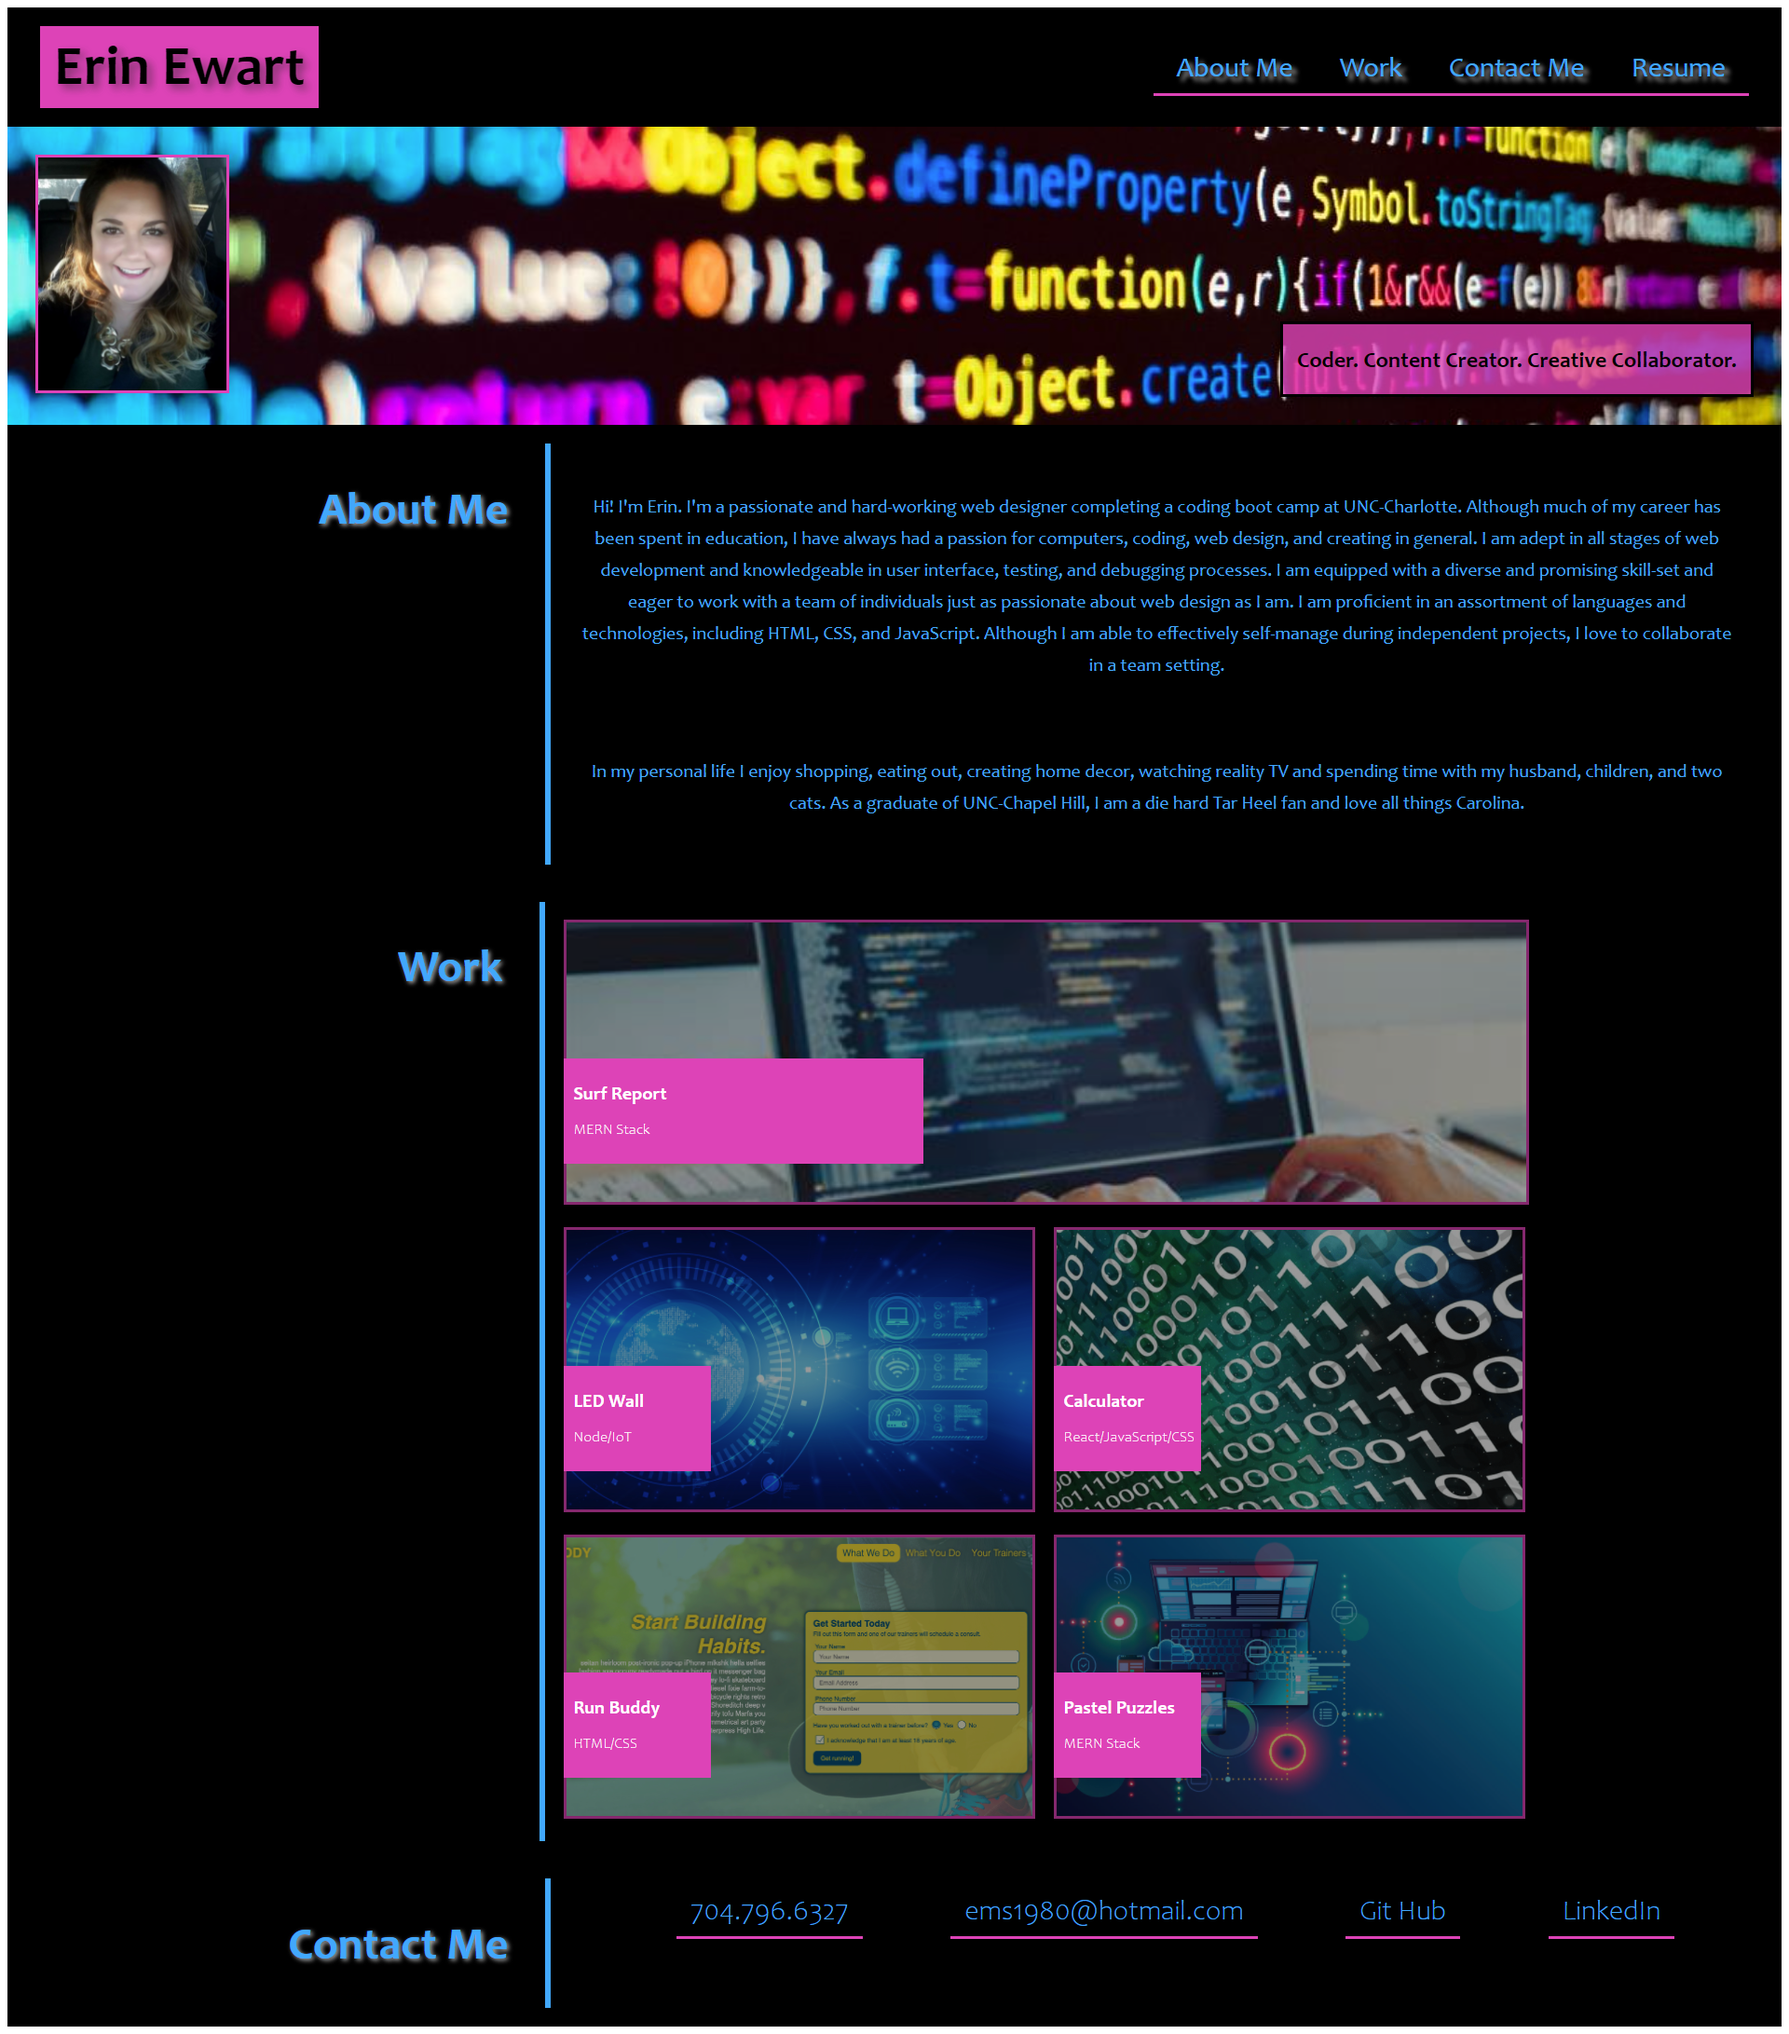
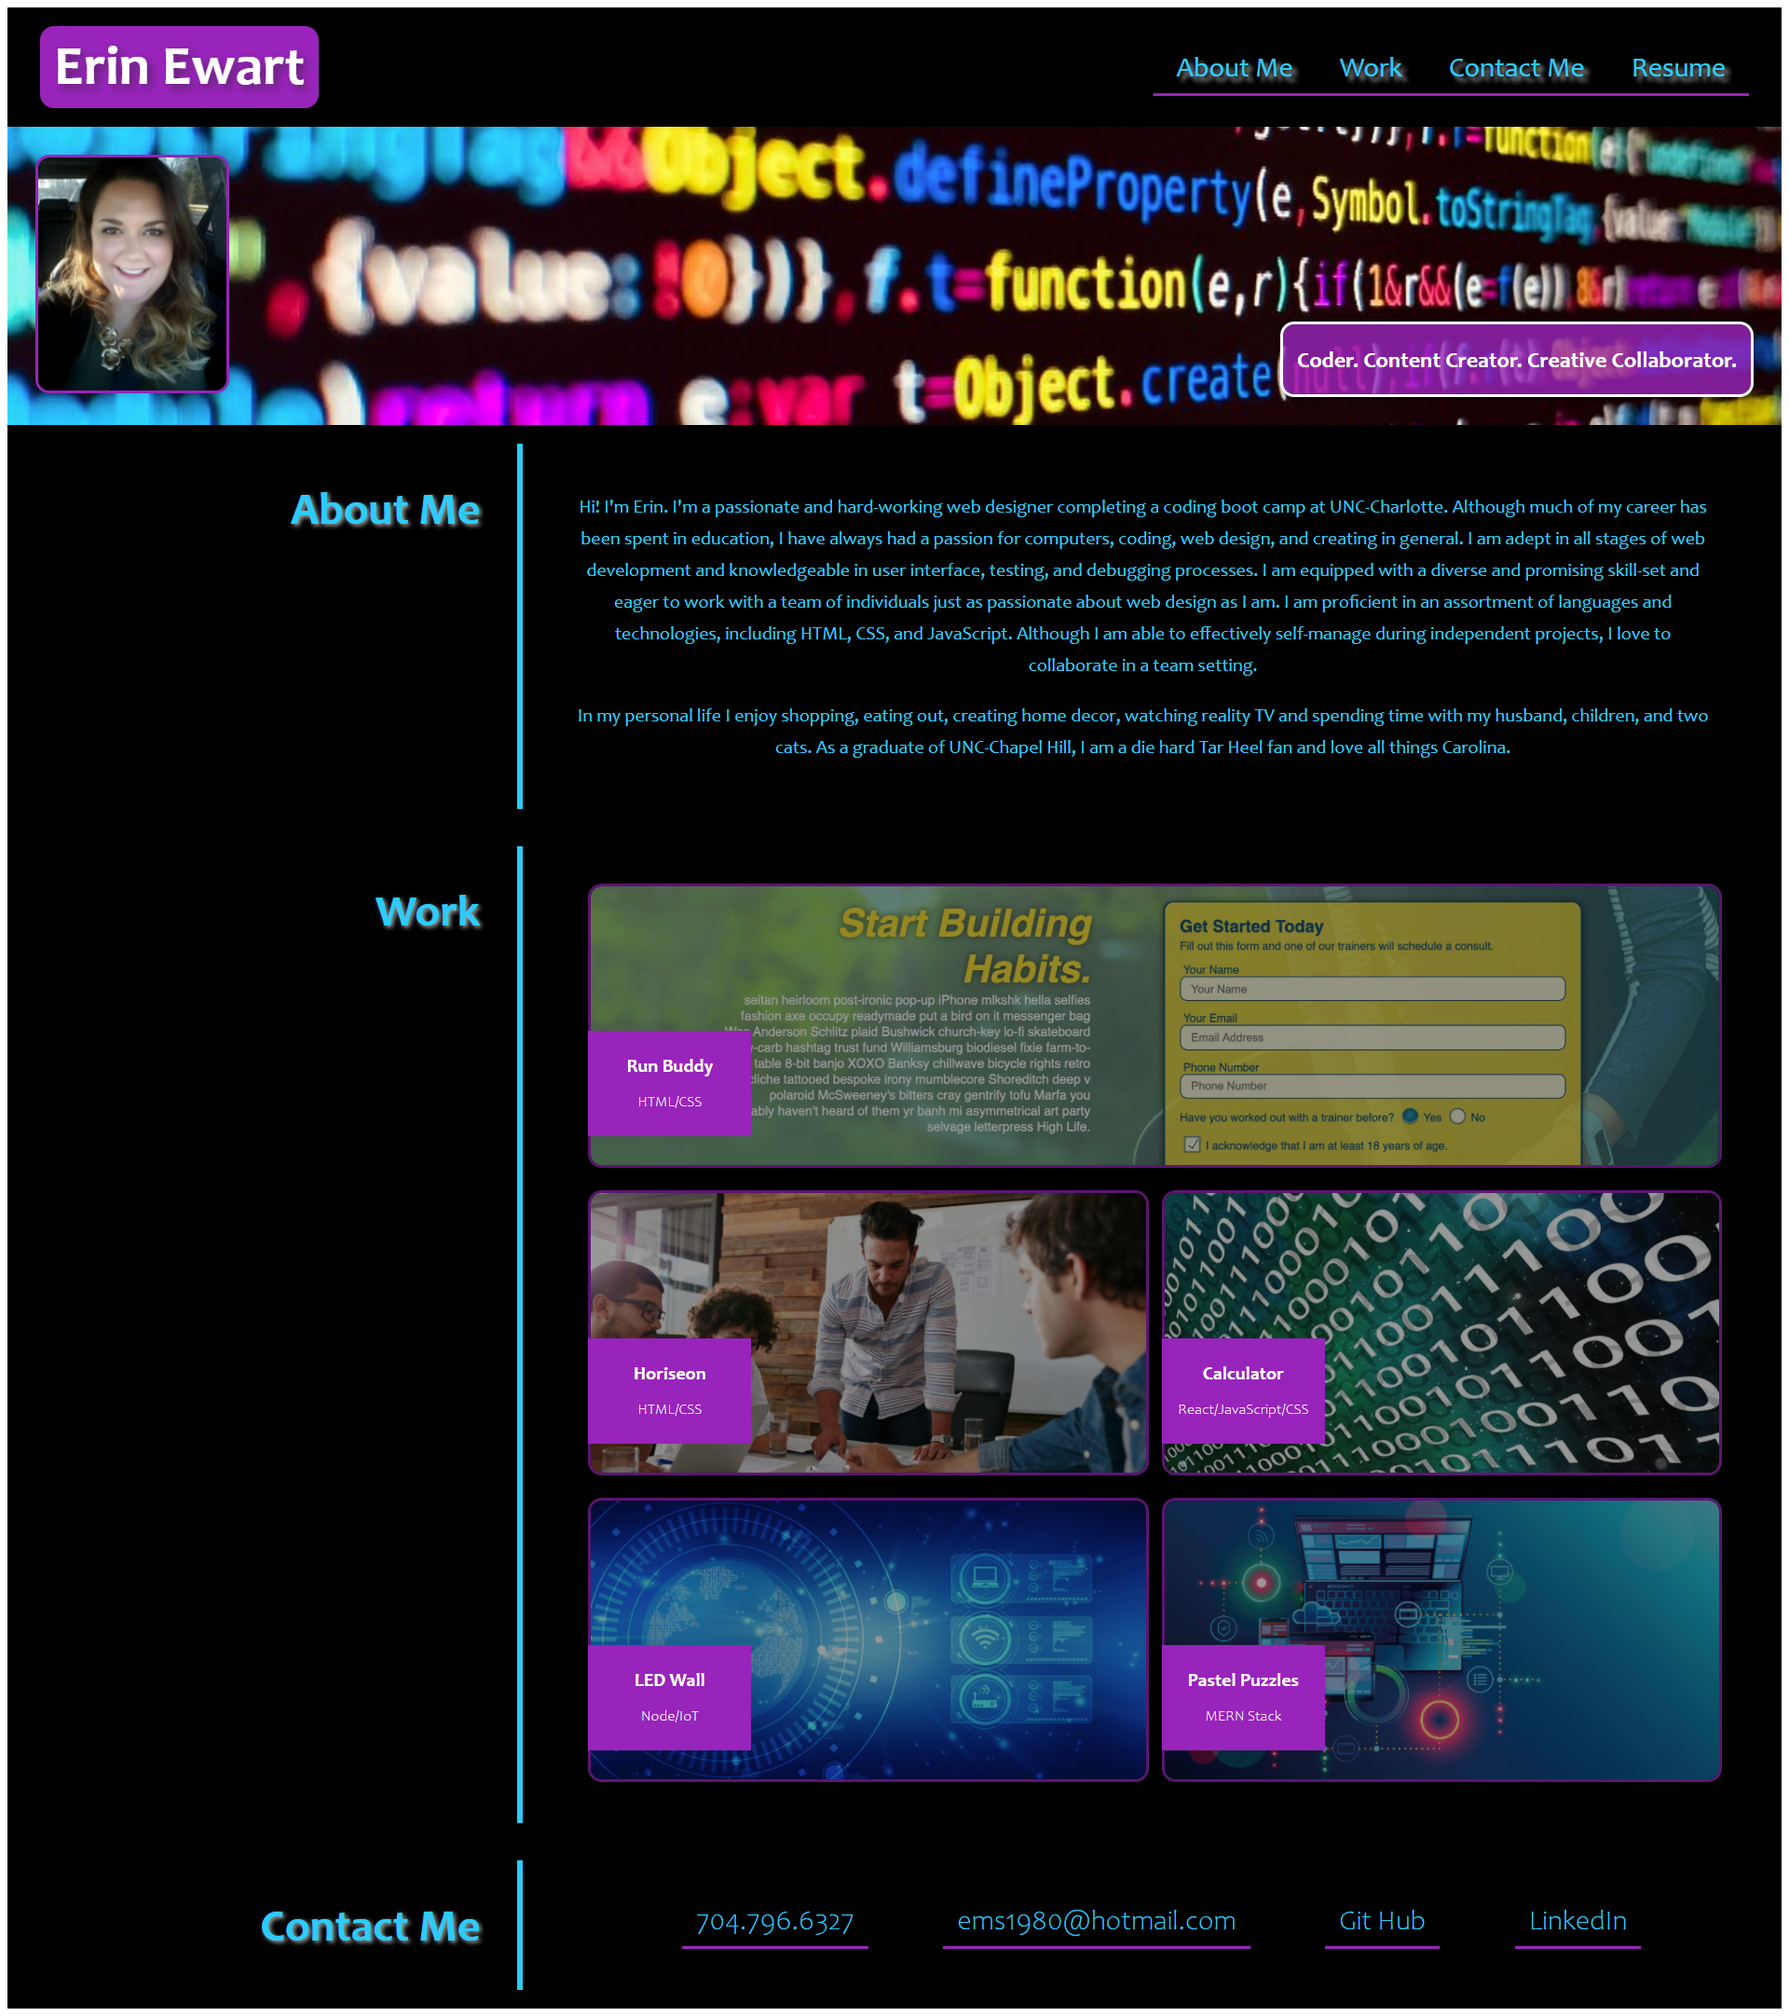
final styling edits

diff --git a/index.html b/index.html
@@ -72,38 +72,8 @@
       <!-- Project 1 -->
       <div class="project-one">
         <div class="project-img">
-          <img src="./assets/images/proj-1.jfif" width="500" height="300" alt="Picture of Surf Report Project" />
-        </div>
-        <div class="project-text">
-          <h3>Surf Report</h3>
-          <h4>MERN Stack</h4>
-        </div>
-      </div>
-      <!-- Project 2 -->
-      <div class="project-two">
-        <div class="project-img">
-          <img src="./assets/images/proj-2.jpg" width="500" height="300" alt="Picture of LED Wall Project" />
-        </div>
-        <div class="project-text">
-          <h3>LED Wall</h3>
-          <h4>Node/IoT</h4>
-        </div>
-      </div>
-      <!-- Project 3 -->
-      <div class="project-three">
-        <div class="project-img">
-          <img src="./assets/images/proj-3.png" width="500" height="300" alt="Picture of Calculator Project " />
-        </div>
-        <div class="project-text">
-          <h3>Calculator</h3>
-          <h4>React/JavaScript/CSS</h4>
-        </div>
-      </div>
-      <!--Project 4 -->
-      <div class="project-four">
-        <div class="project-img">
           <a href="https://uncgirl02.github.io/run-buddy/">
-            <img src="./assets/images/proj-4.jpg" width="500" height="300" alt="Picture of Run Buddy Project" />
+            <img src="./assets/images/proj-1.jpg" width="500" height="300" alt="Picture of Run Buddy Project" />
           </a>
         </div>
         <div class="project-text">
@@ -111,15 +81,57 @@
           <h4>HTML/CSS</h4>
         </div>
       </div>
-      <!-- Project 5 -->
-      <div class="project-five">
-        <div class="project-img">
-          <img src="./assets/images/proj-5.jpg" width="500" height="300" alt="Picture of Pastel Puzzles Project" />
+
+      <div class="small-projects">
+        
+        <!-- Project 2 -->
+        <div class="project-two">
+          <div class="project-img">
+            <a href="https://uncgirl02.github.io/horiseon-code-refactor/">
+              <img src="./assets/images/proj-2.png" width="500" height="300" alt="Picture of Horiseon Project" />
+            </a>
+            </div>
+          <div class="project-text">
+            <h3>Horiseon</h3>
+            <h4>HTML/CSS</h4>
+          </div>
         </div>
-        <div class="project-text">
-          <h3>Pastel Puzzles</h3>
-          <h4>MERN Stack</h4>
+        
+        <!-- Project 3 -->
+        <div class="project-three">
+          <div class="project-img">
+            <img src="./assets/images/proj-3.png" width="500" height="300" alt="Picture of Calculator Project " />
+          </div>
+          <div class="project-text">
+            <h3>Calculator</h3>
+            <h4>React/JavaScript/CSS</h4>
+          </div>
         </div>
+        
+        <!--Project 4 -->
+        <div class="project-four">
+          <div class="project-img">
+            <a href="https://uncgirl02.github.io/run-buddy/">
+              <img src="./assets/images/proj-4.jpg" width="500" height="300" alt="Picture of Run Buddy Project" />
+            </a>
+          </div>
+          <div class="project-text">
+            <h3>LED Wall</h3>
+            <h4>Node/IoT</h4>
+          </div>
+        </div>
+        
+        <!-- Project 5 -->
+        <div class="project-five">
+          <div class="project-img">
+            <img src="./assets/images/proj-5.jpg" width="500" height="300" alt="Picture of Pastel Puzzles Project" />
+          </div>
+          <div class="project-text">
+            <h3>Pastel Puzzles</h3>
+            <h4>MERN Stack</h4>
+          </div>
+        </div>
+
       </div>
 
     </div>

diff --git a/assets/css/style.css b/assets/css/style.css
@@ -184,26 +184,56 @@ body {
   margin: 10px;
   opacity: 60%;
   object-fit: cover;
-  min-width: 84%; 
+  min-width: 100%; 
   border-radius: 15px;
 }
 
-.project-two img, .project-three img, .project-four img, .project-five img {
+.small-projects {
+  flex: 100%;
+  display: flex;
+  flex-wrap: wrap;
+  flex-direction: row;
+  justify-content: space-between;
+  min-width: 40%;
+}
+
+.project-img {
+  margin: 0 10px;
+}
+
+.small-projects img {
   border:var(--pink) solid 3px;
   margin: 10px;
   opacity: 60%;
   object-fit: cover;
   border-radius: 15px;
-} 
+  width: 100%;
+}
+
+ .project-two, .project-three, .project-four, .project-five {
+  flex: 50%;
+  height: auto;
+ }
 
 .project-one img:hover, .project-two img:hover, .project-three img:hover, .project-four img:hover, .project-five img:hover {
   opacity: 100%;
 }
 
+.project-one, .project-two, .project-three, .project-four, .project-five {
+  position: relative;
+  text-align: center;
+} 
+
+.project-one .project-text, .project-two .project-text, .project-three .project-text, .project-four .project-text, .project-five .project-text {
+  position: absolute;
+  top: 45%;
+  margin: 20px;
+}
+
 .project-text {
   background-color: var(--pink);
   color: white;
-  width: 30%;
+  width: 175px;
   padding-bottom: 1px;
 } 
 
@@ -218,16 +248,6 @@ body {
   font-weight: lighter;
   line-height: 0.7;
 } 
- 
-.project-one, .project-two, .project-three, .project-four, .project-five {
-  position: relative;
-}
-
-.project-one .project-text, .project-two .project-text, .project-three .project-text, .project-four .project-text, .project-five .project-text {
-  position: absolute;
-  top: 45%;
-  margin: 10px;
-}
 
 /* WORK STYLES END */
 
@@ -346,12 +366,11 @@ body {
   }
 
   .all-projects.flex-row, .anchors.flex-row, .flex-row {
-    border-left: var(--black) 6px solid;
+    border-left: none;
   }
 
   .project-one {
     min-width: initial;
-    max-width: 526px;
   }
 
   .anchors ul {
@@ -370,11 +389,41 @@ body {
   .anchors ul {
     line-height: 2.5;
   }
+
+  .project-two, .project-three, .project-four, .project-five {
+    flex-direction: column;
+    align-items: center;
+    flex-wrap: nowrap;
+  }
+
+  .project-one img {
+    max-width: 375px;
+  }
 }
   
 /* MEDIA QUERY FOR MOBILE PHONES AND SMALLER */
 
 @media screen and (max-width: 575px) {
+  
+  .intro p {
+    font-size: 16px;
+  }
+  
+  .project-img {
+    margin: 0px;
+  }
+  
+  .project-one img {
+    min-width: 0%;
+  }
+
+  .small-projects {
+    min-width: auto;
+  }
+
+  .small-projects img {
+    width: auto;
+  }
   
   .project-one img, .project-two img, .project-three img, .project-four img, .project-five img {
     max-width: 300px;
@@ -383,6 +432,14 @@ body {
 
   .project-text {
     width: 40%;
+  }
+
+  .all-projects.flex-row {
+    padding: 10px 10px;
+  }
+
+  .project-one .project-text, .project-two .project-text, .project-three .project-text, .project-four .project-text, .project-five .project-text {
+    margin: 10px;
   }
 
   .all-projects h3 {
